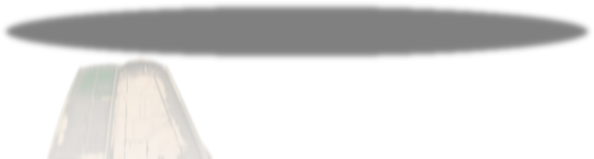
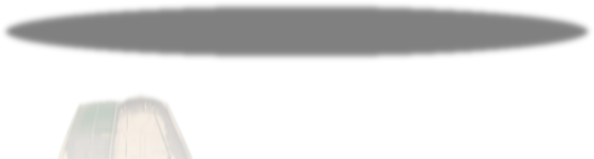
retrovega: the deck's landing legs come in styles per ship: retract, forwardretract, sled
Claude-Session: https://claude.ai/code/session_019Nres1uExFzYT7oEr38LtM

Changed region(s): [[0.0606, 0.3522, 0.3636, 1.0]]

diff --git a/retrovega/tools/places.py b/retrovega/tools/places.py
@@ -26,10 +26,11 @@ Everything is cropped to 16:10 (crop, in source pixels) and scaled to
     place.json           where all of it goes, in screen pixels; the clips'
                          frame times; the launch's timings; the script
 
-Draw order: back, under, sleds, ship, front with the current frame's patch
-pasted in (a copy, transparent pixels included).  A sled is its foot on the
-deck, the strut repeated up to the saddle, the saddle under the hull
-(sled-*.png; place.json gives each ship's sleds as their middle and top).
+Draw order: back, under, legs, ship, front with the current frame's patch
+pasted in (a copy, transparent pixels included).  A landing leg is its foot
+on the deck, the strut repeated up to the saddle, the saddle under the hull,
+in the ship's style (leg-STYLE-*.png; place.json gives each ship's style
+and its legs' strut x and top).
 
 The fighters are rendered by shipviews.py from the deck's own camera
 (elevation, heading) and lit by the deck's warm lamps (light).  They share
@@ -58,9 +59,9 @@ sys.path.insert(0, HERE)
 SCREEN = (640, 400)
 TICK = 50          # ms per frame of the launch
 LAUNCH = {'spool_ms': 600, 'lift_ms': 400, 'lift_px': 4, 'run_ms': 900}
-# the landing sleds, in screen pixels: the least strut showing under a ship's
-# lowest point, their parts' sizes (a painted sled is scaled to the foot's
-# width), the least gap between two sleds
+# the landing legs, in screen pixels: the least strut showing under a ship's
+# lowest point, the drawn leg's parts (a painted leg is scaled to the foot's
+# width), the least gap between two legs
 SLED = {'strut_min': 4, 'foot': (84, 16), 'strut': 14, 'saddle': 66, 'apart': 60}
 RENDER = 1280      # the size the fighters are rendered at before scaling down
 
@@ -197,9 +198,9 @@ def lit(img, light):
     return Image.fromarray(np.clip(a, 0, 255).astype(np.uint8), 'RGBA')
 
 
-def fighter(ship, cfg, frame, cache, parts, rerender=False):
+def fighter(ship, cfg, frame, cache, legs, rerender=False):
     """A fighter on the pad: sprite, position, under layer, engine points, and
-    the sleds it stands on."""
+    the legs it stands on (a style from leg_styles)."""
     above, below, info = render_views(ship, cfg, cache, rerender)
     bb = above.getbbox()
     s = cfg['metre'] * frame.k * info['metres']
@@ -207,47 +208,65 @@ def fighter(ship, cfg, frame, cache, parts, rerender=False):
     sprite = hard(lit(premul_resize(above.crop(bb), size), cfg['light']))
     nose, deck = frame.xy(cfg['nose_x'], cfg['bottom'])
     deck = round(deck)
-    # every ship rides on sleds: its lowest point clears the shortest sled
-    clearance = parts[0].size[1] + parts[2].size[1] - seat(parts) + SLED['strut_min']
+    # every ship stands on its legs: its lowest point clears the shortest leg
+    foot, _strut, saddle = legs['parts']
+    clearance = foot.size[1] + saddle.size[1] - legs['seat'] + SLED['strut_min']
     x, y = round(nose - size[0]), round(deck - clearance - size[1])
     # the ship's centre on the screen: the renders are centred on it
     cx, cy = x + (RENDER / 2 - bb[0]) * s, y + (RENDER / 2 - bb[1]) * s
     engines = nozzles(sprite, [(ey - bb[1]) * s for _ex, ey, _r in info['engines']])
     under, ux, uy = under_layer(below, s, x, size[0], cx, cy, deck, cfg['light'])
     return {'sprite': sprite, 'x': x, 'y': y, 'under': under, 'ux': ux, 'uy': uy, 'engines': engines,
-            'sleds': sled_spots(sprite, x, y, [frame.xy(sx, 0)[0] for sx in cfg['sleds']])}
+            'sleds': sled_spots(sprite, x, y, [frame.xy(sx, 0)[0] for sx in cfg['sleds']], legs)}
 
 
-def sled_spots(sprite, x, y, want):
-    """Where a fighter's sleds stand: at the room's sled spots (screen x),
-    each moved towards the nose until there is hull above its saddle, a sled
-    that ends up too near another left out.  Each is [x of its middle, y of
-    its top]; its top meets the belly, the lowest point over the saddle."""
+def sled_spots(sprite, x, y, want, legs):
+    """Where a fighter's legs stand: at the room's spots (screen x), each
+    moved towards the nose until there is hull over its whole top, a leg that
+    ends up too near another left out.  Each is [x of its strut, y of its
+    top]; its top meets the belly, the lowest point over it."""
     a = np.asarray(sprite)[..., 3] > 0
     h, w = a.shape
     has = a.any(axis=0)
     belly = np.where(has, h - 1 - np.argmax(a[::-1], axis=0), -1)
-    half = SLED['saddle'] // 2
+    lo, hi = legs['top']
     spots = []
     for sx in want:
-        c = max(int(round(sx)) - x, half)
-        while c + half < w and not has[c - half:c + half + 1].all():
+        c = max(int(round(sx)) - x, -lo)
+        while c + hi < w and not has[c + lo:c + hi + 1].all():
             c += 1
-        if c + half >= w or any(abs(x + c - q[0]) < SLED['apart'] for q in spots):
+        if c + hi >= w or any(abs(x + c - q[0]) < SLED['apart'] for q in spots):
             continue
-        band = belly[c - half:c + half + 1]
-        spots.append([int(x + c), int(y + band.max() + 1)])
+        spots.append([int(x + c), int(y + belly[c + lo:c + hi + 1].max() + 1)])
     return spots
 
 
-def sled_parts(light, src=None):
-    """The standard landing sled, in three parts the engine stacks: the foot
-    on the deck, the strut repeated to the height it needs, the saddle under
-    the hull.  From painted art (SRC/sled.png, side on, transparent or white
-    around it) when there is some, else a drawn placeholder."""
-    path = os.path.join(src, 'sled.png') if src else None
-    if path and os.path.exists(path):
-        return painted_sled(path, light)
+def leg_styles(light, src):
+    """The landing legs, by style: each painted one in SRC/legs/STYLE.png
+    (side on, transparent or white around it), or a drawn placeholder,
+    'drawn', when there are none.  A style is its three parts the engine
+    stacks (the foot on the deck, the strut repeated to the height it needs,
+    the saddle under the hull, all the same width), where the strut's middle
+    is (axis), how far down the saddle the hull rests (seat) and the span of
+    the saddle's top about the axis (top)."""
+    folder = os.path.join(src, 'legs')
+    names = sorted(f[:-4] for f in os.listdir(folder) if f.endswith('.png')) if os.path.isdir(folder) else []
+    styles = {}
+    for name in names or ['drawn']:
+        parts = painted_leg(os.path.join(folder, name + '.png')) if names else drawn_leg()
+        parts = [hard(lit(p, [c / max(light) for c in light])) for p in parts]
+        strut = np.nonzero(np.asarray(parts[1])[0, :, 3])[0]
+        axis = int(round((strut[0] + strut[-1]) / 2))
+        sa = np.asarray(parts[2])[..., 3] > 0
+        top = np.nonzero(sa[:3].any(axis=0))[0]
+        styles[name] = {'parts': parts, 'axis': axis, 'seat': seat(sa, axis),
+                        'top': (int(top[0]) - axis, int(top[-1]) - axis)}
+    return styles
+
+
+def drawn_leg():
+    """A placeholder leg: a gunmetal foot with a hazard band, a polished
+    ram, a padded olive saddle."""
     def shade(w, h, lo, hi, axis):
         t = np.linspace(0, 1, w if axis == 1 else h, dtype=np.float32)
         ramp = np.clip(1 - np.abs(t - 0.32) / 0.68, 0, 1) ** 0.8          # a highlight left of middle
@@ -260,40 +279,36 @@ def sled_parts(light, src=None):
         rgba[edge, :3] = (24, 22, 20)
         return rgba
 
-    ink = (24, 22, 20)
-    # the foot: a low wedge of gunmetal with a hazard band
     fw, fh = SLED['foot']
     foot = np.zeros((fh, fw, 4), np.float32)
     rgb = shade(fw, fh, (52, 54, 56), (118, 118, 116), 1)
     yy, xx = np.mgrid[0:fh, 0:fw]
     inset = (fh - 1 - yy) * 0.6
-    inside = (xx >= inset) & (xx <= fw - 1 - inset)
     band = (yy >= fh // 3) & (yy < fh // 3 + 4)
     stripe = ((xx + yy) // 3) % 2 == 0
     rgb[band & stripe] = (206, 160, 40)
     rgb[band & ~stripe] = (30, 28, 26)
-    foot[..., :3], foot[..., 3] = rgb, inside * 255.0
-    foot = outline(foot)
-    # the strut: a polished hydraulic ram, one row high
+    foot[..., :3], foot[..., 3] = rgb, ((xx >= inset) & (xx <= fw - 1 - inset)) * 255.0
     sw = SLED['strut']
-    strut = np.zeros((1, sw, 4), np.float32)
-    strut[..., :3] = shade(sw, 1, (60, 60, 62), (196, 192, 184), 1)
-    strut[..., 3] = 255
-    strut[0, 0, :3] = strut[0, -1, :3] = ink
-    # the saddle: a padded olive cradle
+    strut = np.zeros((1, fw, 4), np.float32)
+    x0 = (fw - sw) // 2
+    strut[0, x0:x0 + sw, :3] = shade(sw, 1, (60, 60, 62), (196, 192, 184), 1)[0]
+    strut[0, x0:x0 + sw, 3] = 255
+    strut[0, x0, :3] = strut[0, x0 + sw - 1, :3] = (24, 22, 20)
     cw, ch = SLED['saddle'], 8
-    saddle = np.zeros((ch, cw, 4), np.float32)
-    saddle[..., :3] = shade(cw, ch, (40, 44, 30), (104, 110, 74), 0)[::-1]
-    yy, xx = np.mgrid[0:ch, 0:cw]
-    saddle[..., 3] = ((xx >= (ch - 1 - yy) * 0.8 * 0) & (np.abs(xx - (cw - 1) / 2) <= (cw / 2 - (yy == ch - 1) * 2))) * 255.0
-    saddle = outline(saddle)
-    return [Image.fromarray(np.clip(lit_arr(p, light), 0, 255).astype(np.uint8), 'RGBA')
-            for p in (foot, strut, saddle)]
+    saddle = np.zeros((ch, fw, 4), np.float32)
+    x0 = (fw - cw) // 2
+    saddle[:, x0:x0 + cw, :3] = shade(cw, ch, (40, 44, 30), (104, 110, 74), 0)[::-1]
+    saddle[:, x0:x0 + cw, 3] = 255
+    saddle[-1, x0:x0 + 2, 3] = saddle[-1, x0 + cw - 2:x0 + cw, 3] = 0
+    return [Image.fromarray(np.clip(p, 0, 255).astype(np.uint8), 'RGBA')
+            for p in (outline(foot), strut, outline(saddle))]
 
 
-def painted_sled(path, light):
-    """Slice a painted sled: the strut is the longest run of rows at its
-    narrowest width; the rows below are the foot, those above the saddle."""
+def painted_leg(path):
+    """Slice a painted leg, scaled so its foot is SLED['foot'] wide: the
+    strut is the longest run of rows at its narrowest width; the rows below
+    are the foot, those above the saddle."""
     img = Image.open(path).convert('RGBA')
     a = np.asarray(img)
     if a[..., 3].min() == 255:                       # no alpha: key out the white around it
@@ -304,8 +319,10 @@ def painted_sled(path, light):
         a[..., 3] = np.where(np.isin(lab, [l for l in edge if l]), 0, 255)
         img = Image.fromarray(a, 'RGBA')
     img = img.crop(img.getbbox())
-    w = SLED['foot'][0]
-    img = premul_resize(img, (w, round(img.size[1] * w / img.size[0])))
+    rows = (np.asarray(img)[..., 3] > 0).sum(axis=1)
+    foot = rows[-max(1, len(rows) // 10):].max()     # the widest row of the bottom tenth
+    k = SLED['foot'][0] / foot
+    img = premul_resize(img, (round(img.size[0] * k), round(img.size[1] * k)))
     a = np.asarray(img)[..., 3] >= 128
     widths = a.sum(axis=1)
     narrow = (widths > 0) & (widths <= widths[widths > 0].min() + 2)
@@ -319,35 +336,26 @@ def painted_sled(path, light):
     top, bottom = max(runs, key=lambda r: r[1] - r[0])
     mid = (top + bottom) // 2
     W, H = img.size
-    parts = [img.crop((0, bottom, W, H)), img.crop((0, mid, W, mid + 1)), img.crop((0, 0, W, top))]
-    return [hard(lit(p, [c / max(light) for c in light])) for p in parts]
+    return [img.crop((0, bottom, W, H)), img.crop((0, mid, W, mid + 1)), img.crop((0, 0, W, top))]
 
 
-def lit_arr(a, light):
-    a = a.copy()
-    a[..., :3] *= np.array(light, np.float32) / max(light)
-    return a
-
-
-def seat(parts):
-    """How far down the saddle the hull rests: the top of its middle.  A
-    cradle's raised ends then hug the hull (or hide behind it)."""
-    a = np.asarray(parts[2])[..., 3] > 0
-    mid = a.shape[1] // 2
-    tops = [np.argmax(a[:, c]) for c in range(mid - 3, mid + 4) if a[:, c].any()]
+def seat(a, axis):
+    """How far down the saddle the hull rests: the top of the saddle over
+    the strut.  A cradle's raised ends then hug the hull (or hide behind it)."""
+    tops = [np.argmax(a[:, c]) for c in range(axis - 3, axis + 4) if 0 <= c < a.shape[1] and a[:, c].any()]
     return int(np.median(tops)) if tops else 0
 
 
-def sled(parts, height):
-    """A sled height pixels tall, foot to the saddle's top, as one picture."""
-    foot, strut, saddle = parts
-    w = max(p.size[0] for p in parts)
+def sled(legs, height):
+    """A leg height pixels tall, foot to the saddle's top, as one picture."""
+    foot, strut, saddle = legs['parts']
+    w = foot.size[0]
     img = Image.new('RGBA', (w, max(height, foot.size[1] + saddle.size[1])), (0, 0, 0, 0))
     H = img.size[1]
     for yy in range(saddle.size[1], H - foot.size[1] + 2):
-        img.alpha_composite(strut, ((w - strut.size[0]) // 2, yy))
-    img.alpha_composite(foot, ((w - foot.size[0]) // 2, H - foot.size[1]))
-    img.alpha_composite(saddle, ((w - saddle.size[0]) // 2, 0))
+        img.alpha_composite(strut, (0, yy))
+    img.alpha_composite(foot, (0, H - foot.size[1]))
+    img.alpha_composite(saddle, (0, 0))
     return img
 
 
@@ -437,9 +445,10 @@ def compose(back, front, rect, patch, ship=None, dx=0.0, dy=0.0, burn=0.0):
         u = np.asarray(ship['under']).astype(np.float32) / 255
         ua = u[..., 3:4] * max(0.0, 1 - lift / 12)
         paste_blend(img, u[..., :3], ua, ship['ux'] + dx, ship['uy'] + lift)
+        legs = ship['legs']
         for sx, top in ship['sleds']:
-            sl = np.asarray(sled(ship['parts'], ship['deck'] - top + seat(ship['parts']))).astype(np.float32) / 255
-            paste_blend(img, sl[..., :3], sl[..., 3:4], sx - sl.shape[1] // 2, ship['deck'] - sl.shape[0])
+            sl = np.asarray(sled(legs, ship['deck'] - top + legs['seat'])).astype(np.float32) / 255
+            paste_blend(img, sl[..., :3], sl[..., 3:4], sx - legs['axis'], ship['deck'] - sl.shape[0])
         if burn > 0:
             h = ship['sprite'].size[1]
             for ex, ey in ship['engines']:
@@ -503,24 +512,29 @@ def build(key, cfg, out, cache, rerender=False, log=print):
     ships = {}
     if 'fighter' in cfg:
         fc = cfg['fighter']
-        parts = sled_parts(fc['light'], src)
-        for name, part in zip(('foot', 'strut', 'saddle'), parts):
-            part.save(os.path.join(od, 'sled-%s.png' % name))
-        place['fighter'] = {'deck': round(frame.xy(0, fc['bottom'])[1]), 'ships': {},
-                            'sled': {'foot': 'sled-foot.png', 'strut': 'sled-strut.png',
-                                     'saddle': 'sled-saddle.png', 'seat': seat(parts)}}
+        styles = leg_styles(fc['light'], src)
+        place['fighter'] = {'deck': round(frame.xy(0, fc['bottom'])[1]), 'ships': {}, 'legs': {}}
+        for name, st in styles.items():
+            files = ['leg-%s-%s.png' % (name, part) for part in ('foot', 'strut', 'saddle')]
+            for fn, part in zip(files, st['parts']):
+                part.save(os.path.join(od, fn))
+            place['fighter']['legs'][name] = dict(zip(('foot', 'strut', 'saddle'), files),
+                                                  axis=st['axis'], seat=st['seat'])
         place['launch'] = dict(LAUNCH)
+        pick = fc.get('legs', {})
         for ship in deck_ships(fc['ships']):
-            sh = fighter(ship, fc, frame, cache, parts, rerender)
-            sh['parts'], sh['deck'] = parts, place['fighter']['deck']
+            style = pick.get(ship, pick.get('default'))
+            style = style if style in styles else next(iter(styles))
+            sh = fighter(ship, fc, frame, cache, styles[style], rerender)
+            sh['legs'], sh['style'], sh['deck'] = styles[style], style, place['fighter']['deck']
             ships[ship] = sh
             sh['sprite'].save(os.path.join(od, 'ship-%s.png' % ship))
             sh['under'].save(os.path.join(od, 'ship-%s-under.png' % ship))
             place['fighter']['ships'][ship] = {
                 'sprite': 'ship-%s.png' % ship, 'x': sh['x'], 'y': sh['y'],
                 'under': 'ship-%s-under.png' % ship, 'ux': sh['ux'], 'uy': sh['uy'],
-                'engines': sh['engines'], 'sleds': sh['sleds']}
-            log('  %s %dx%d at %d,%d' % (ship, *sh['sprite'].size, sh['x'], sh['y']))
+                'engines': sh['engines'], 'legs': sh['style'], 'sleds': sh['sleds']}
+            log('  %s %dx%d at %d,%d on %s legs' % (ship, *sh['sprite'].size, sh['x'], sh['y'], style))
     with open(os.path.join(od, 'place.json'), 'w') as f:
         json.dump(place, f, indent=1)
     return back, front, rect, clips, ships, place

diff --git a/retrovega/docs/places.md b/retrovega/docs/places.md
@@ -35,7 +35,7 @@ The source canvas is 1536x1024. It is cropped to 1536x960 (32 pixels off
 the top and the bottom) and scaled to 640x400.
 
 **Draw order:** the room, then the fighter's under layer (its shadow and
-its reflection in the polished deck), then its sleds, its exhaust, the
+its reflection in the polished deck), then its landing legs, its exhaust, the
 fighter itself, and last the front layer with the current frame's patch
 copied in. The copy includes transparent pixels: the patch replaces that
 rectangle of the front layer. The tool checks that no frame changes the
@@ -64,27 +64,37 @@ front outside the patch.
 **Placement:** the nose is at `nose_x`. The rest runs behind Kit and off
 the left. A heavy fighter shows only its front and goes off the top.
 
-**The landing sleds:** every ship rides above the deck on standard
-landing sleds.
+**The landing legs:** every ship stands on two landing legs of one
+style, chosen per ship (`legs` in data/places.json; `default` for the
+rest).
 
-- **Shape:** a sled is a foot on the deck, a strut repeated up to the
-  height it needs, and a saddle under the hull (`sled-foot.png`,
-  `sled-strut.png`, `sled-saddle.png`). The engine stacks them.
-- **Where they go:** at the deck's two sled spots (`sleds`, source x): one
-  under the middle of the deck, one behind the cart, where it is mostly
-  hidden. A spot with no hull over it moves towards the nose until there
-  is; a sled that would end up within 60 px of the other is left out. Each
-  reaches from the deck to the lowest point of the hull above its saddle.
-- **The art:** a painted sled, `art/places/src/deck/sled.png` (the prompt
-  below), sliced by the tool: the strut is the longest run of rows at its
-  narrowest width, the foot is below it and the saddle above. The saddle
-  is a padded cradle, as the prompt asked. The hull rests in the middle of
-  its dip (`seat` in place.json), so the raised ends hug the hull or hide
-  behind it. Without the file, the tool draws placeholder parts.
-- **Height:** every ship's lowest point clears the shortest sled: the foot,
-  the saddle and 4 rows of strut.
+| style | what | ships so far |
+|---|---|---|
+| `retract` | a gear leg, its door swung out towards the nose | the default: Redeemer, Schroedinger, Pacifier |
+| `forwardretract` | a gear leg, its door folded across the front | Gawain, Lancelot |
+| `sled` | a deck sled: a hazard-striped foot and a padded cradle | Franklin |
 
-**The launch:** after the ready nod, the fighter launches and the sleds
+- **Art:** each style is a painted picture, `art/places/src/deck/legs/STYLE.png`
+  (the user's image synthesis, side on, on white). The tool slices each
+  one and scales it so its foot is 84 px wide.
+- **Slicing:** the strut is the longest run of rows at its narrowest width
+  (the polished ram), the foot is everything below it, the saddle
+  everything above. The engine stacks them, repeating the strut row to the
+  height it needs (`leg-STYLE-foot/strut/saddle.png`). place.json gives
+  each style's `axis` (the strut's middle) and `seat` (how far down the
+  saddle the hull rests: the cradle's dip; 0 for the gear legs' flat
+  plates).
+- **Where they go:** at the deck's two spots (`sleds`, source x): one under
+  the middle of the deck, one behind the cart, where it is mostly hidden.
+  A spot with no hull over the leg's whole top moves towards the nose until
+  there is; a leg that would end up within 60 px of the other is left out.
+  Each reaches from the deck to the lowest point of the hull above it.
+- **Height:** every ship's lowest point clears its style's shortest leg:
+  the foot, the saddle and 4 rows of strut. On the gear legs that is about
+  65 px, some 3 m.
+- **Placeholder:** without any painted legs the tool draws one, `drawn`.
+
+**The launch:** after the ready nod, the fighter launches and the legs
 stay on the deck.
 
 1. The engines spool up (600 ms).
@@ -101,16 +111,16 @@ Everything the engine needs, in screen pixels:
 - **back** and **front**.
 - **actor:** the patch rectangle, and each clip's atlas (8 frames to a
   row) and frame times.
-- **fighter:** the deck's line, the sled parts, and per ship:
+- **fighter:** the deck's line, the leg styles' parts, and per ship:
   - **sprite:** the picture and its corner;
   - **under:** the under layer (RGBA: colour, and how much of it to blend
     over the room) and its corner;
   - **engines:** the nozzles, relative to the sprite;
-  - **sleds:** each sled's middle and top.
+  - **legs** (its style) and **sleds:** each leg's strut x and its top.
 - **launch** timings.
 - **script:** the order the clips and the launch play in.
 
-## Painted sled prompt
+## Painted leg prompt (the first, the cradle sled)
 
 Send with the style block of [location-prompts.md](location-prompts.md):
 
